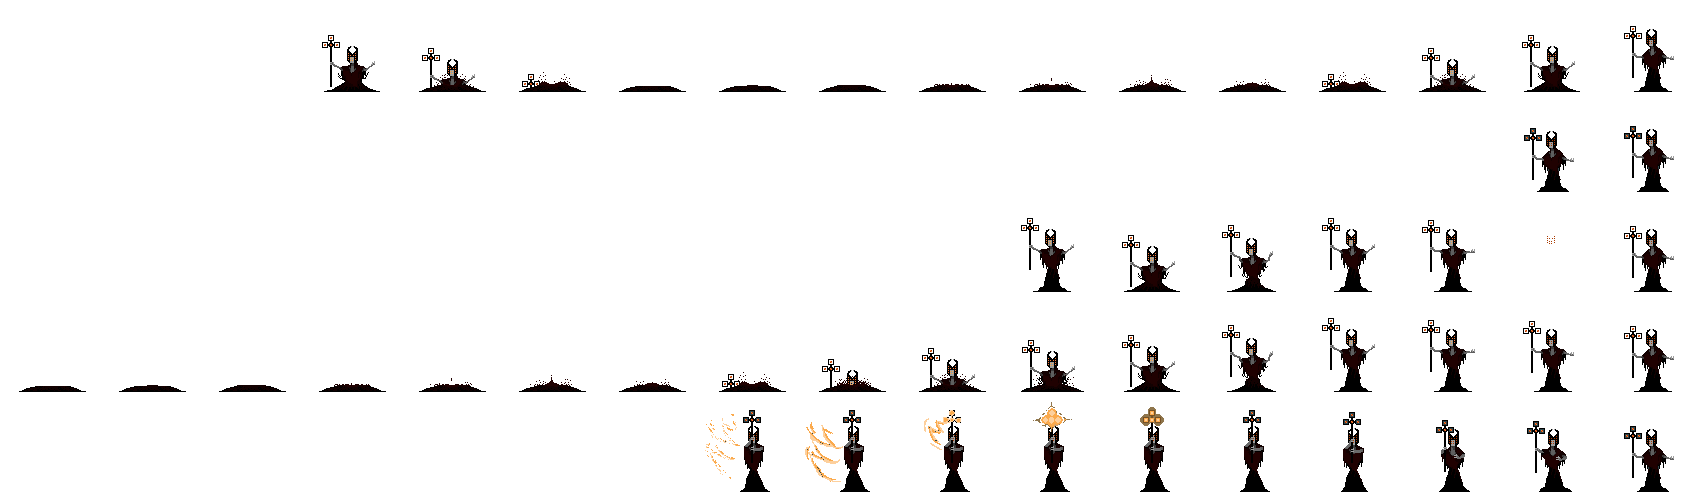
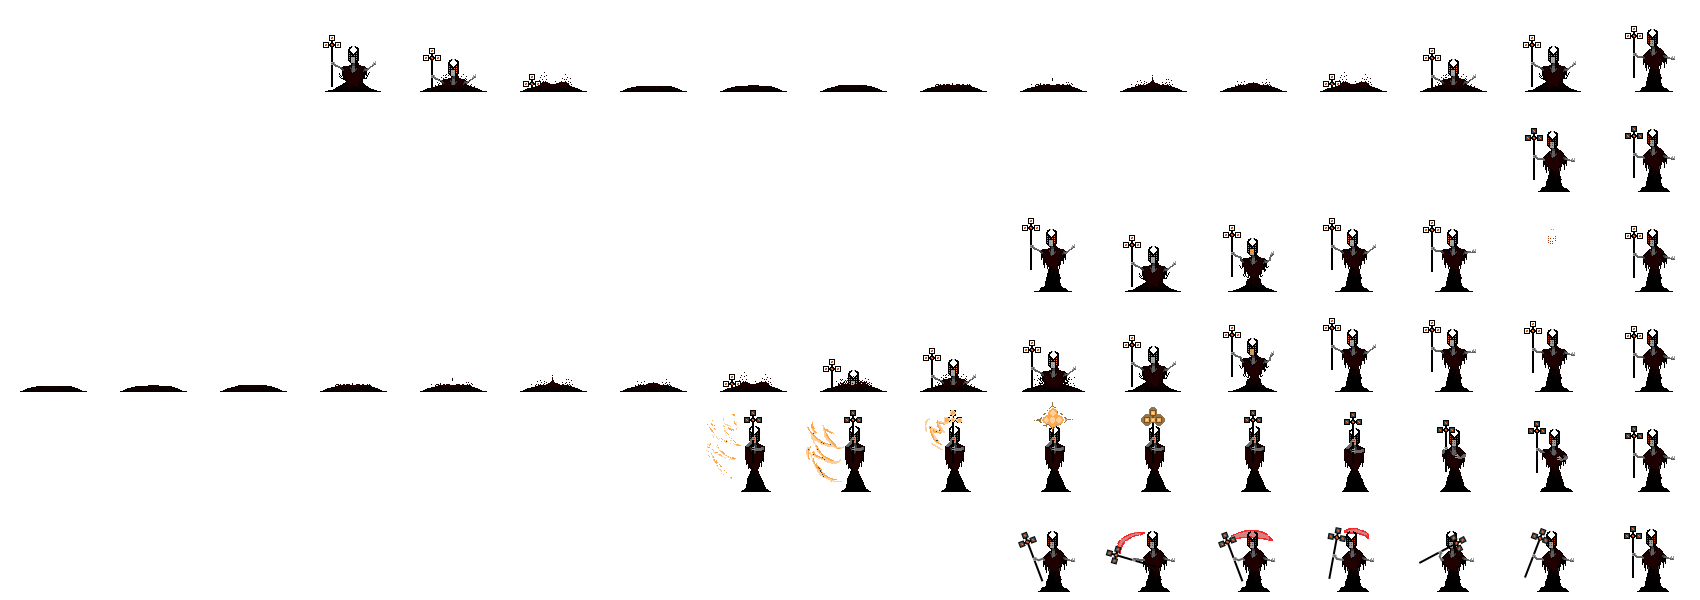
敵 攻撃 8割

diff --git a/Project1/Object/Attack/AttackMng.cpp b/Project1/Object/Attack/AttackMng.cpp
@@ -19,6 +19,8 @@
 
 #include "../EnemyAttack/TrackingBall.h"
 #include "../EnemyAttack/SpearAttack.h"
+#include "../EnemyAttack/ThunderAttack.h"
+#include "../EnemyAttack/CaneAttack.h"
 
 AttackMng* AttackMng::sInstance = nullptr;
 
@@ -285,6 +287,38 @@ void AttackMng::MakeSpearAttack(Vector2 pos, DIR dir, TIME time, int stage, OBJ_
 	else
 	{
 		_tmpObj.emplace_back(new SpearAttack(pos, dir, time, stage, target));
+
+	//	return _tmpObj.back()->getAnmEfk();
+	}
+}
+
+void AttackMng::MakeThunderAttack(Vector2 pos, DIR dir, TIME time, int stage, OBJ_TYPE target)
+{
+		if (_canAddObj)
+	{
+		_attackObj.emplace_back(new ThunderAttack(pos, dir, time, stage, target));
+
+	//	return _attackObj.back()->getAnmEfk();
+	}
+	else
+	{
+		_tmpObj.emplace_back(new ThunderAttack(pos, dir, time, stage, target));
+
+	//	return _tmpObj.back()->getAnmEfk();
+	}
+}
+
+void AttackMng::MakeCaneAttack(Vector2 pos, DIR dir, TIME time, int stage, OBJ_TYPE target)
+{
+		if (_canAddObj)
+	{
+		_attackObj.emplace_back(new CaneAttack(pos, dir, time, stage, target));
+
+	//	return _attackObj.back()->getAnmEfk();
+	}
+	else
+	{
+		_tmpObj.emplace_back(new CaneAttack(pos, dir, time, stage, target));
 
 	//	return _tmpObj.back()->getAnmEfk();
 	}

diff --git a/Project1/Scene/GameScene.cpp b/Project1/Scene/GameScene.cpp
@@ -46,8 +46,8 @@ GameScene::GameScene()
 	lpImageMng.getImage("image/Enemy/wizardRAttackC.png", "wizardR", 80, 80, 10, 5);
 	lpImageMng.getImage("image/Enemy/wizardLAttackC.png", "wizardL", 80, 80, 10, 5);
 
-	lpImageMng.getImage("image/Enemy/sorcerervillainRC.png", "sorcViR", 100, 100, 17, 5);
-	lpImageMng.getImage("image/Enemy/sorcerervillainLC.png", "sorcViL", 100, 100, 17, 5);
+	lpImageMng.getImage("image/Enemy/sorcerervillainRC.png", "sorcViR", 100, 100, 17, 6);
+	lpImageMng.getImage("image/Enemy/sorcerervillainLC.png", "sorcViL", 100, 100, 17, 6);
 
 	lpImageMng.getImage("image/Enemy/exclamationpoint.png", "excPoint", 80, 80, 1, 1);
 	lpImageMng.getImage("image/Enemy/questionmark.png", "queMark", 80, 80, 1, 1);

diff --git a/Project1/Object/Enemy/Boss.cpp b/Project1/Object/Enemy/Boss.cpp
@@ -39,6 +39,16 @@ void Boss::RunAtkList(void)
 				atkList.erase(atkList.begin());
 				break;
 
+			case AtkList::THUNDER:
+				lpAtkMng.MakeThunderAttack(_pos, _plDir, _time, _stage, OBJ_TYPE::PLAYER);
+				atkList.erase(atkList.begin());
+				break;
+
+			case AtkList::CANE_ATTACK:
+				lpAtkMng.MakeCaneAttack(_pos, _plDir, _time, _stage, OBJ_TYPE::PLAYER);
+				atkList.erase(atkList.begin());
+				break;
+
 			default:
 				break;
 			}

diff --git a/Project1/Object/EnemyAttack/SpearAttack.cpp b/Project1/Object/EnemyAttack/SpearAttack.cpp
@@ -45,7 +45,6 @@ bool SpearAttack::Init(void)
 	std::vector<atkData> attack;
 	attack.reserve(1);
 
-	//attack.emplace_back(atkData(true, OBJ_TYPE::ATTACK, { _pos.x - 10, _pos.y - 10 }, { _pos.x + 10, _pos.y + 10 }, 30, 10, _target));
 	attack.emplace_back(atkData(true, OBJ_TYPE::ATTACK, { 0, 0 }, 50, 1, 10, _target));
 //	attack.emplace_back(atkData(false, OBJ_TYPE::ATTACK, { 0, 0 }, { 0, 0 }, 0, -1, _target));
 

diff --git a/Project1/Object/EnemyAttack/SpearAttack.h b/Project1/Object/EnemyAttack/SpearAttack.h
@@ -5,15 +5,16 @@ class SpearAttack :
 {
 public:
 	SpearAttack(Vector2& ePos, DIR dir, TIME time, int stage, OBJ_TYPE target);
+	SpearAttack() {}
 	~SpearAttack();
 
 	void Update(void)override;
 	void Draw(void) override;
 	void IfHitAttack(std::shared_ptr<Object> target) override;
 
-private:
+protected:
 	int _farstY;
 	OBJ_TYPE _target;
-	bool Init(void);
+	virtual bool Init(void);
 };
 

diff --git a/Project1/Object/Enemy/EnemyMng.cpp b/Project1/Object/Enemy/EnemyMng.cpp
@@ -130,7 +130,8 @@ void EnemyMng::Init(void)
 	}
 
 	_enemyList.clear();
-	_enemyList.emplace_back(new s_dragon({ 848,1280 },1,0, false));
+	_enemyList.emplace_back(new sorcerer({ 848,1280 },1,0, false));
+	//_enemyList.emplace_back(new s_dragon({ 848,1280 },1,0, false));
 
 	_plStage[0] = 1;
 	_plStage[1] = 1;

diff --git a/Project1/Object/Object.h b/Project1/Object/Object.h
@@ -31,6 +31,7 @@ enum class OBJ_STATE : int
 	FALL,
 	ATTACK,
 	ATTACK2,
+	ATTACK3,
 	DEAD
 };
 
